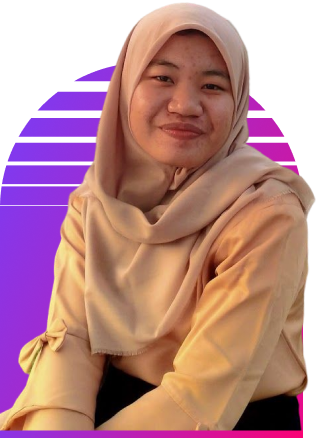
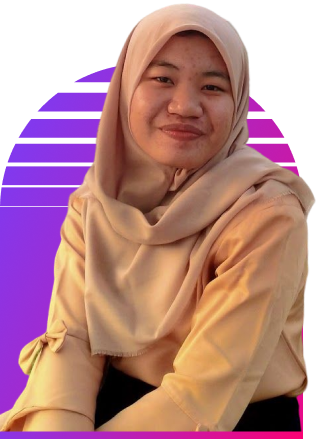
fix(beranda/testimoni): improve image quality

diff --git a/components/beranda/Testimoni.tsx b/components/beranda/Testimoni.tsx
@@ -35,7 +35,7 @@ function Testimoni() {
       image: "/beranda/testimoni/dinda.png",
     },
     {
-      nama: "Naufal Majid Nursalim",
+      nama: "Naufal Majid N",
       fakultas: "Teknik Geodesi 2022",
       blastout: "Blastout 2022",
       testimoni:
@@ -51,7 +51,7 @@ function Testimoni() {
     //   image: "/beranda/testimoni/hidayat.png",
     // },
     {
-      nama: "Hidayat Syaifudin Ma'arif",
+      nama: "Hidayat Syaifudin",
       fakultas: "Teknik Sipil 2022",
       blastout: "Blastout 2020",
       testimoni:
@@ -59,7 +59,7 @@ function Testimoni() {
       image: "/beranda/testimoni/hidayat.png",
     },
     {
-      nama: "Rosyidatun Nur Fa'izah",
+      nama: "Rosyidatun Nur F",
       fakultas: "FKH 2021",
       blastout: "Blastout 2020 & 2021",
       testimoni:
@@ -194,6 +194,7 @@ const CardCarousel = ({
           width={303}
           height={438}
           className="aspect-square h-full object-contain"
+          quality={100}
           alt=""
         />
         <div className="mt-auto text-center">
